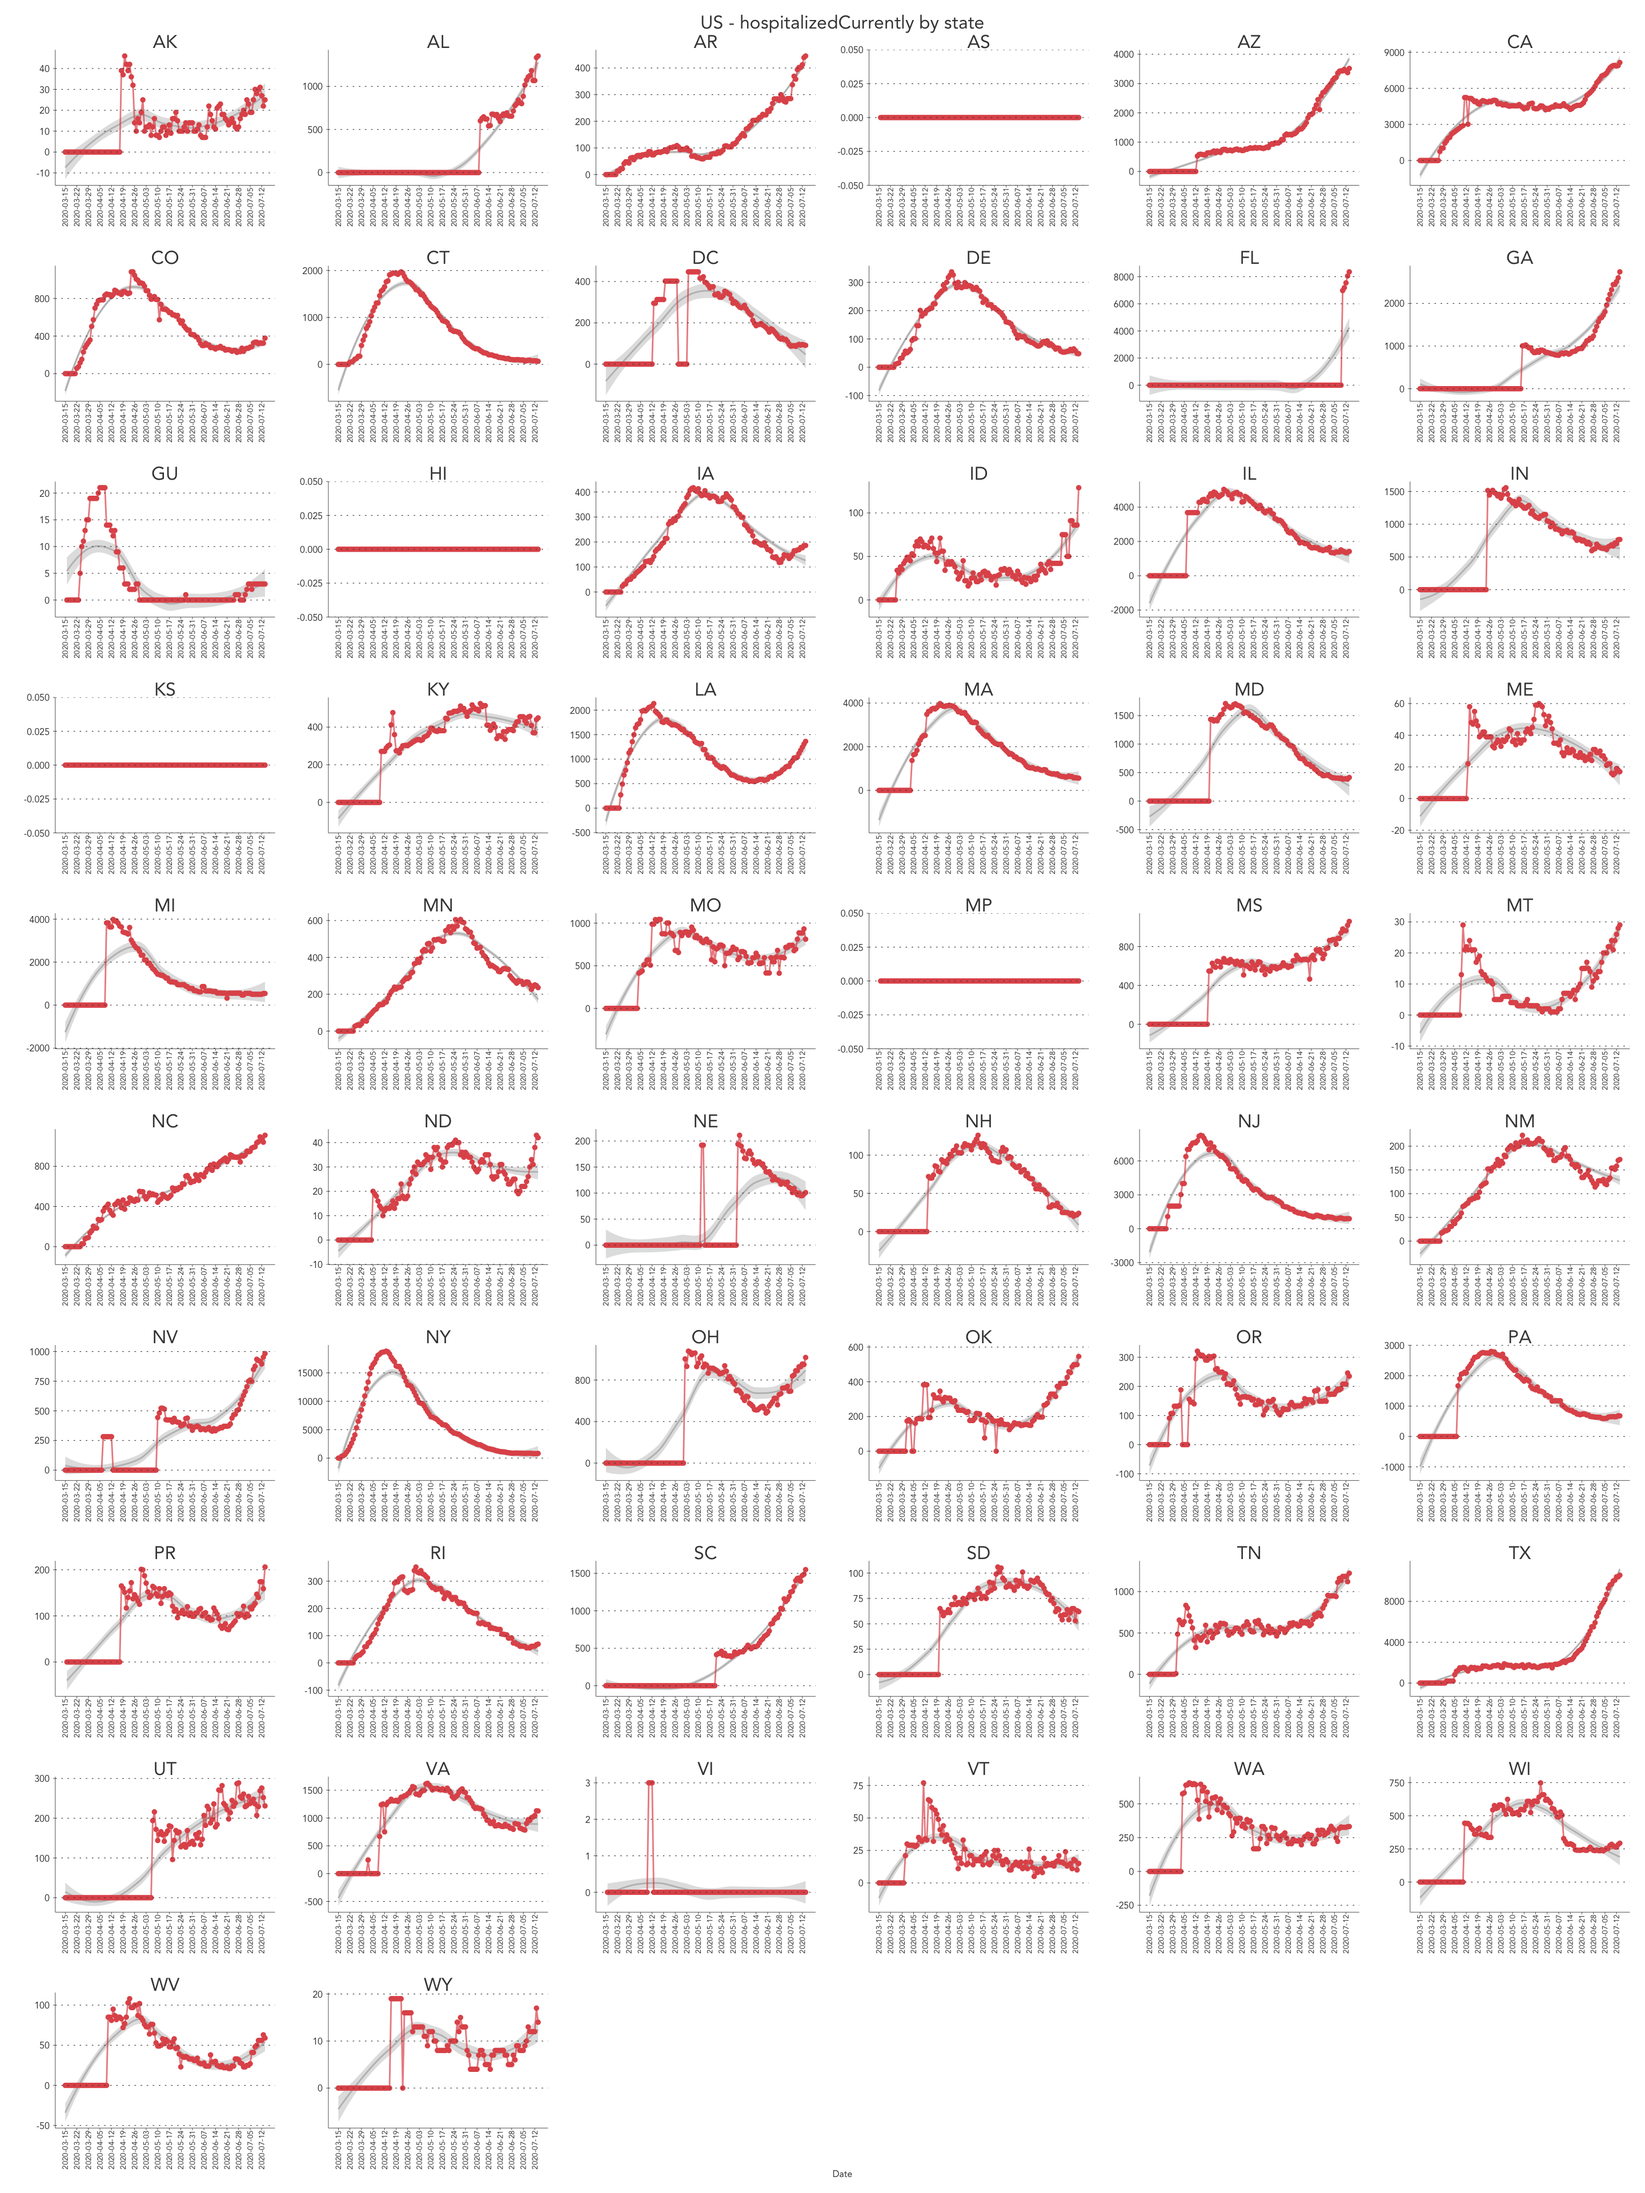
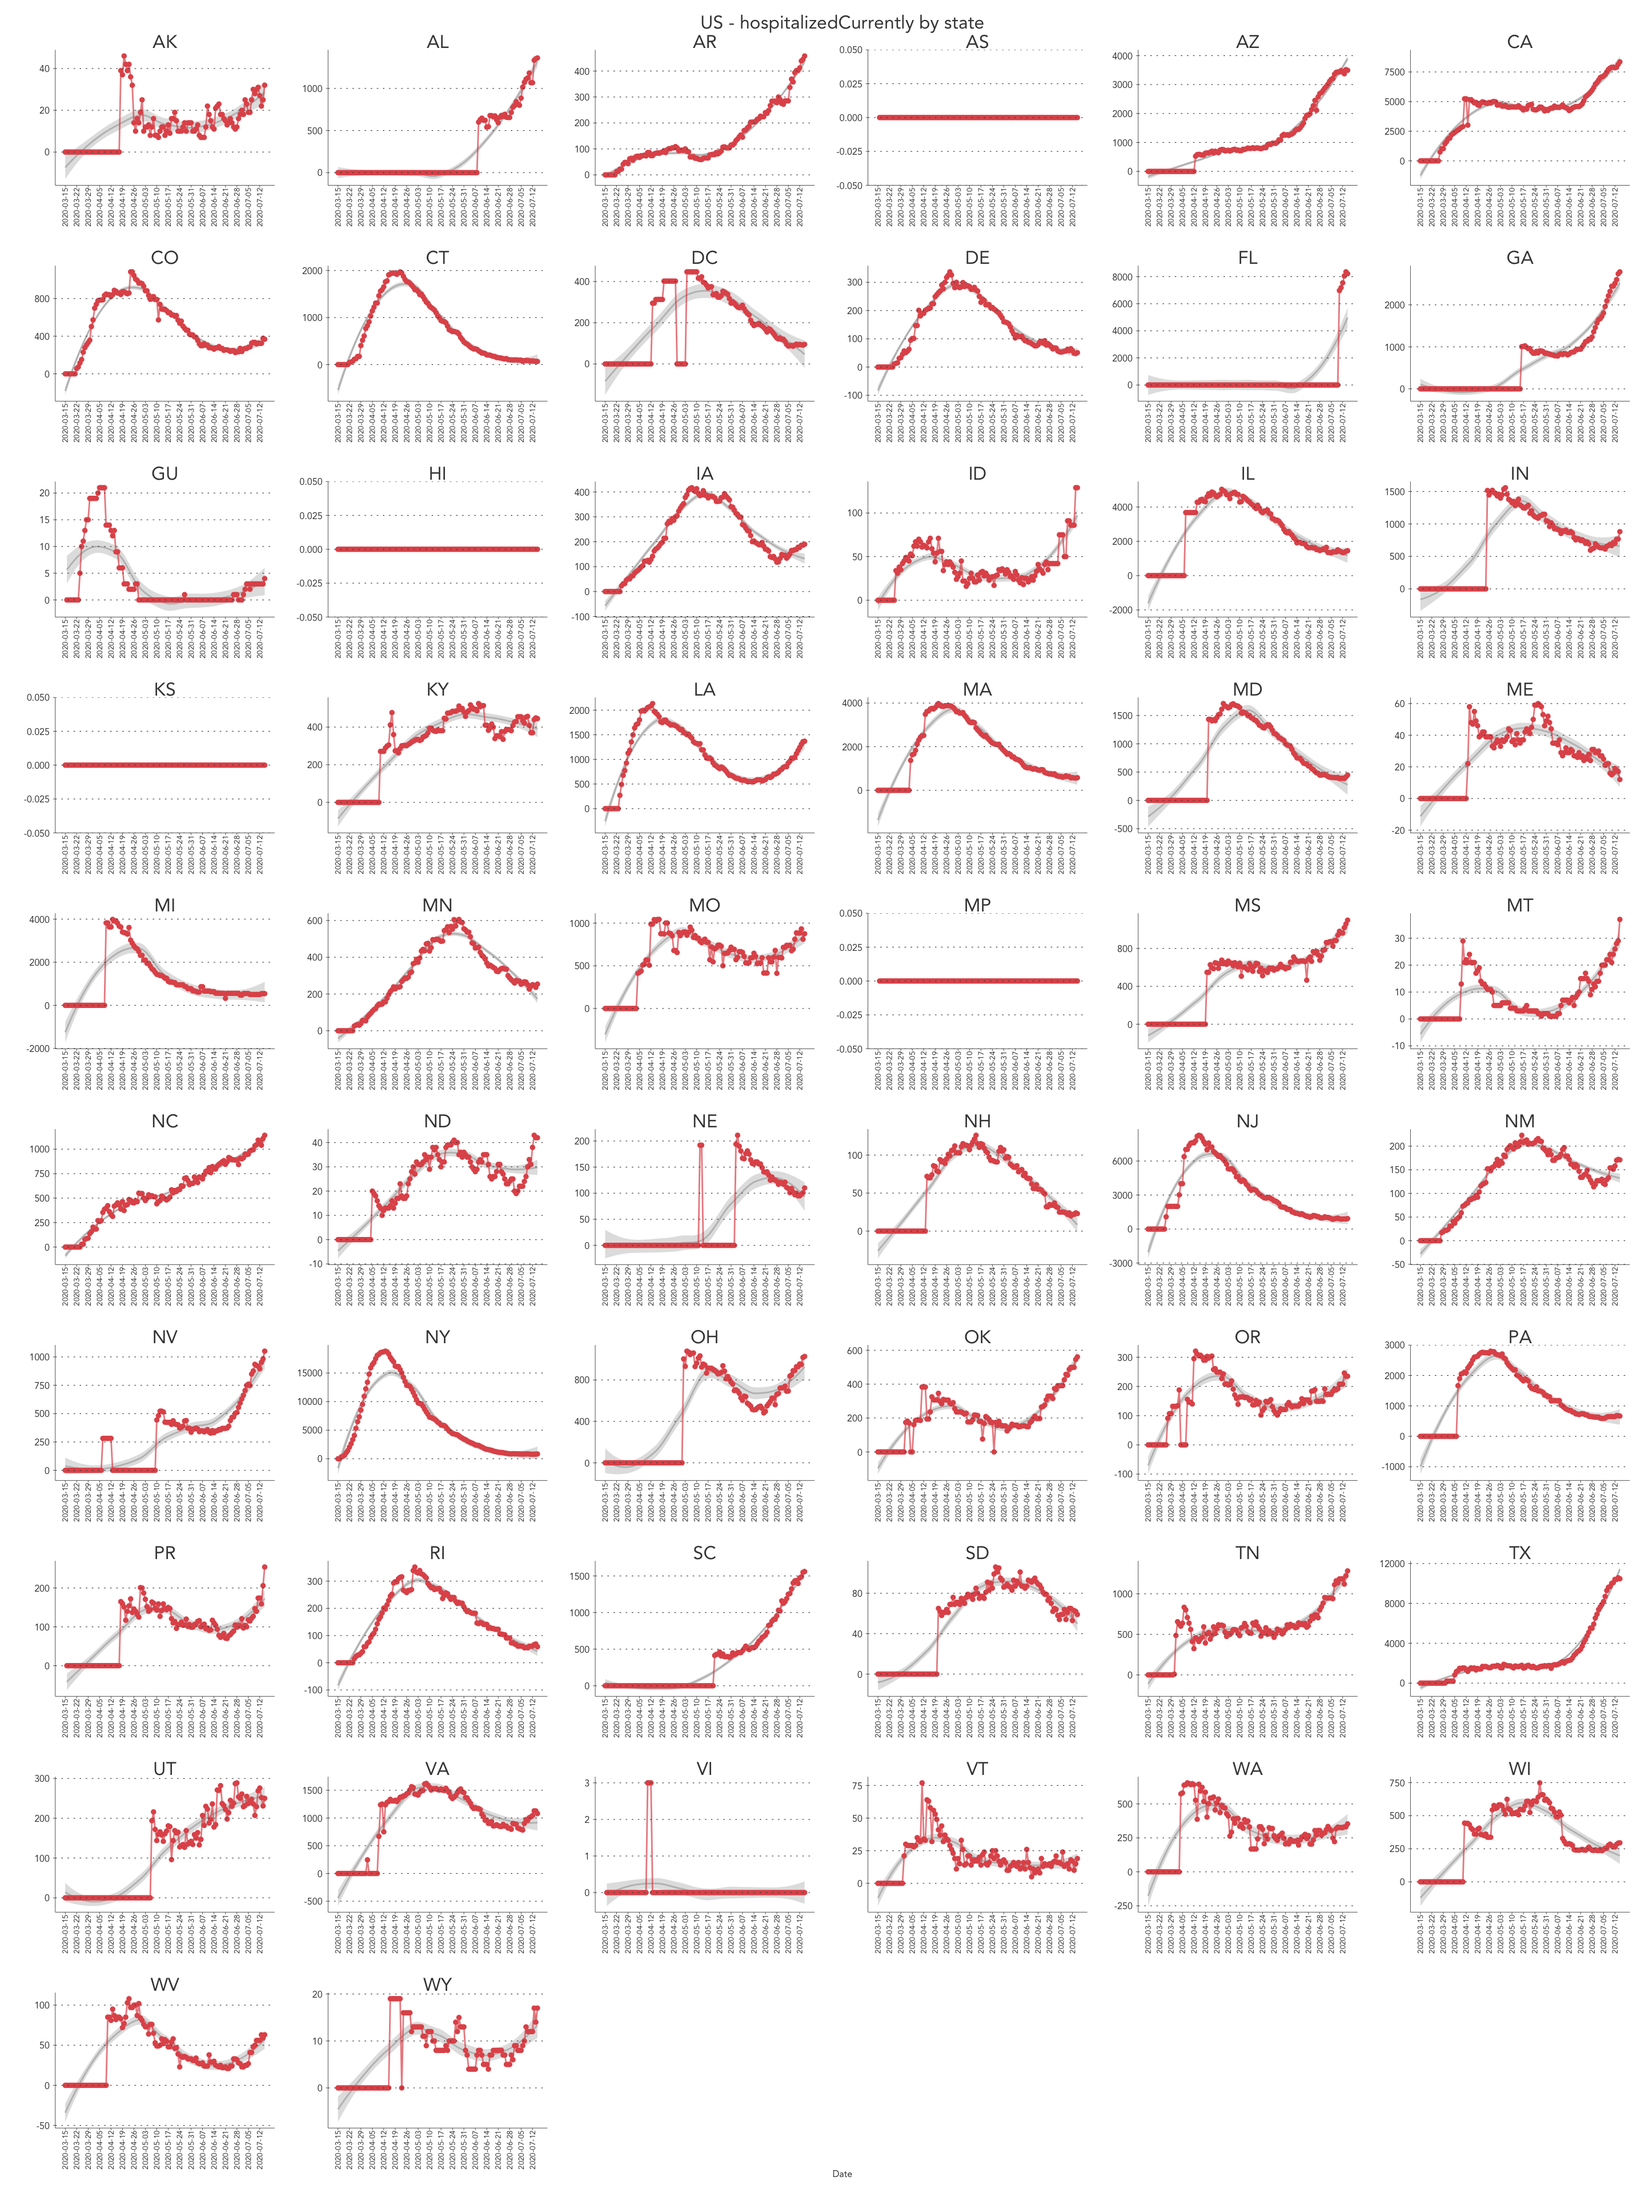
0715 up

diff --git a/covid19-vis.html b/covid19-vis.html
@@ -311,52 +311,52 @@ population
 <tbody>
 <tr>
 <td style="text-align:left;">
-2020-07-14
+2020-07-15
 </td>
 <td style="text-align:left;">
 AK
 </td>
 <td style="text-align:right;">
-1579
+1631
 </td>
 <td style="text-align:right;">
-147894
-</td>
-<td style="text-align:right;">
-0
-</td>
-<td style="text-align:right;">
-25
+154462
 </td>
 <td style="text-align:right;">
 0
 </td>
 <td style="text-align:right;">
+32
+</td>
+<td style="text-align:right;">
+0
+</td>
+<td style="text-align:right;">
 0
 </td>
 <td style="text-align:right;">
 0
 </td>
 <td style="text-align:right;">
-1
+0
 </td>
 <td style="text-align:right;">
 0
 </td>
 <td style="text-align:right;">
-642
+669
 </td>
 <td style="text-align:left;">
 A
 </td>
 <td style="text-align:left;">
-7/14/2020 00:00
+7/15/2020 00:00
 </td>
 <td style="text-align:left;">
-2020-07-14T00:00:00Z
+2020-07-15T00:00:00Z
 </td>
 <td style="text-align:left;">
-07/13 20:00
+07/14 20:00
 </td>
 <td style="text-align:right;">
 17
@@ -365,10 +365,10 @@ A
 0
 </td>
 <td style="text-align:left;">
-2020-07-14T00:00:00Z
+2020-07-15T00:00:00Z
 </td>
 <td style="text-align:right;">
-149473
+156093
 </td>
 <td style="text-align:right;">
 0
@@ -389,22 +389,22 @@ A
 2
 </td>
 <td style="text-align:right;">
-40
+52
 </td>
 <td style="text-align:right;">
-2843
+6568
 </td>
 <td style="text-align:right;">
-149473
+156093
 </td>
 <td style="text-align:right;">
-149473
+156093
 </td>
 <td style="text-align:right;">
-2883
+6620
 </td>
 <td style="text-align:right;">
-149473
+156093
 </td>
 <td style="text-align:right;">
 0
@@ -413,7 +413,7 @@ A
 0
 </td>
 <td style="text-align:left;">
-14ec620d73185257a210b3f634cca1a8024dabe0
+94f51a21cc1532dde7387df47013f567fb56d967
 </td>
 <td style="text-align:right;">
 0
@@ -439,61 +439,64 @@ A
 </tr>
 <tr>
 <td style="text-align:left;">
-2020-07-14
+2020-07-15
 </td>
 <td style="text-align:left;">
 AL
 </td>
 <td style="text-align:right;">
-57255
+59067
 </td>
 <td style="text-align:right;">
-471834
-</td>
-<td style="text-align:right;">
-0
-</td>
-<td style="text-align:right;">
-1353
-</td>
-<td style="text-align:right;">
-7123
+481982
 </td>
 <td style="text-align:right;">
 0
 </td>
 <td style="text-align:right;">
-931
+1362
+</td>
+<td style="text-align:right;">
+7291
 </td>
 <td style="text-align:right;">
 0
 </td>
 <td style="text-align:right;">
-511
+941
 </td>
 <td style="text-align:right;">
-25783
+0
+</td>
+<td style="text-align:right;">
+514
+</td>
+<td style="text-align:right;">
+29736
 </td>
 <td style="text-align:left;">
 B
 </td>
 <td style="text-align:left;">
-7/14/2020 11:00
+7/15/2020 11:00
 </td>
 <td style="text-align:left;">
-2020-07-14T11:00:00Z
+2020-07-15T11:00:00Z
 </td>
 <td style="text-align:left;">
-07/14 07:00
+07/15 07:00
 </td>
 <td style="text-align:right;">
-1164
+1211
 </td>
 <td style="text-align:right;">
-7123
+7291
 </td>
 <td style="text-align:left;">
-2020-07-14T11:00:00Z
+2020-07-15T11:00:00Z
+</td>
+<td style="text-align:right;">
+540207
 </td>
 <td style="text-align:right;">
 0
@@ -502,13 +505,10 @@ B
 0
 </td>
 <td style="text-align:right;">
-0
+58225
 </td>
 <td style="text-align:right;">
-56441
-</td>
-<td style="text-align:right;">
-1136
+1183
 </td>
 <td style="text-align:right;">
 28
@@ -517,31 +517,31 @@ B
 1
 </td>
 <td style="text-align:right;">
-1710
+1812
 </td>
 <td style="text-align:right;">
-7775
+10148
 </td>
 <td style="text-align:right;">
-529089
+541049
 </td>
 <td style="text-align:right;">
-529089
+541049
 </td>
 <td style="text-align:right;">
-9485
+11960
 </td>
 <td style="text-align:right;">
-529089
+541049
 </td>
 <td style="text-align:right;">
-40
+47
 </td>
 <td style="text-align:right;">
-378
+168
 </td>
 <td style="text-align:left;">
-820cd0cab43d1d4994f54d9f80d70d3ce3257dbe
+115a76b81b0c3c59d334b5de8180c2e10899dddc
 </td>
 <td style="text-align:right;">
 0
@@ -567,64 +567,64 @@ B
 </tr>
 <tr>
 <td style="text-align:left;">
-2020-07-14
+2020-07-15
 </td>
 <td style="text-align:left;">
 AR
 </td>
 <td style="text-align:right;">
-29733
+30297
 </td>
 <td style="text-align:right;">
-360566
-</td>
-<td style="text-align:right;">
-0
-</td>
-<td style="text-align:right;">
-445
-</td>
-<td style="text-align:right;">
-1872
+365479
 </td>
 <td style="text-align:right;">
 0
 </td>
 <td style="text-align:right;">
+458
+</td>
+<td style="text-align:right;">
+1948
+</td>
+<td style="text-align:right;">
 0
 </td>
 <td style="text-align:right;">
-91
+0
 </td>
 <td style="text-align:right;">
-273
+94
 </td>
 <td style="text-align:right;">
-22844
+279
+</td>
+<td style="text-align:right;">
+23523
 </td>
 <td style="text-align:left;">
 A
 </td>
 <td style="text-align:left;">
-7/14/2020 15:43
+7/15/2020 14:36
 </td>
 <td style="text-align:left;">
-2020-07-14T15:43:00Z
+2020-07-15T14:36:00Z
 </td>
 <td style="text-align:left;">
-07/14 11:43
+07/15 10:36
 </td>
 <td style="text-align:right;">
-331
+335
 </td>
 <td style="text-align:right;">
-1872
+1948
 </td>
 <td style="text-align:left;">
-2020-07-14T15:43:00Z
+2020-07-15T14:36:00Z
 </td>
 <td style="text-align:right;">
-389505
+395212
 </td>
 <td style="text-align:right;">
 0
@@ -633,7 +633,7 @@ A
 0
 </td>
 <td style="text-align:right;">
-29733
+30297
 </td>
 <td style="text-align:right;">
 0
@@ -645,31 +645,31 @@ A
 5
 </td>
 <td style="text-align:right;">
-794
+564
 </td>
 <td style="text-align:right;">
-6531
+4913
 </td>
 <td style="text-align:right;">
-390299
+395776
 </td>
 <td style="text-align:right;">
-390299
+395776
 </td>
 <td style="text-align:right;">
-7325
+5477
 </td>
 <td style="text-align:right;">
-390299
+395776
 </td>
 <td style="text-align:right;">
-8
+4
 </td>
 <td style="text-align:right;">
-36
+76
 </td>
 <td style="text-align:left;">
-815df27dba712c14d4f70512eb9b4b6523a88525
+ce730ea246418cfcb8291076ec9ebfd46c643bfa
 </td>
 <td style="text-align:right;">
 0
